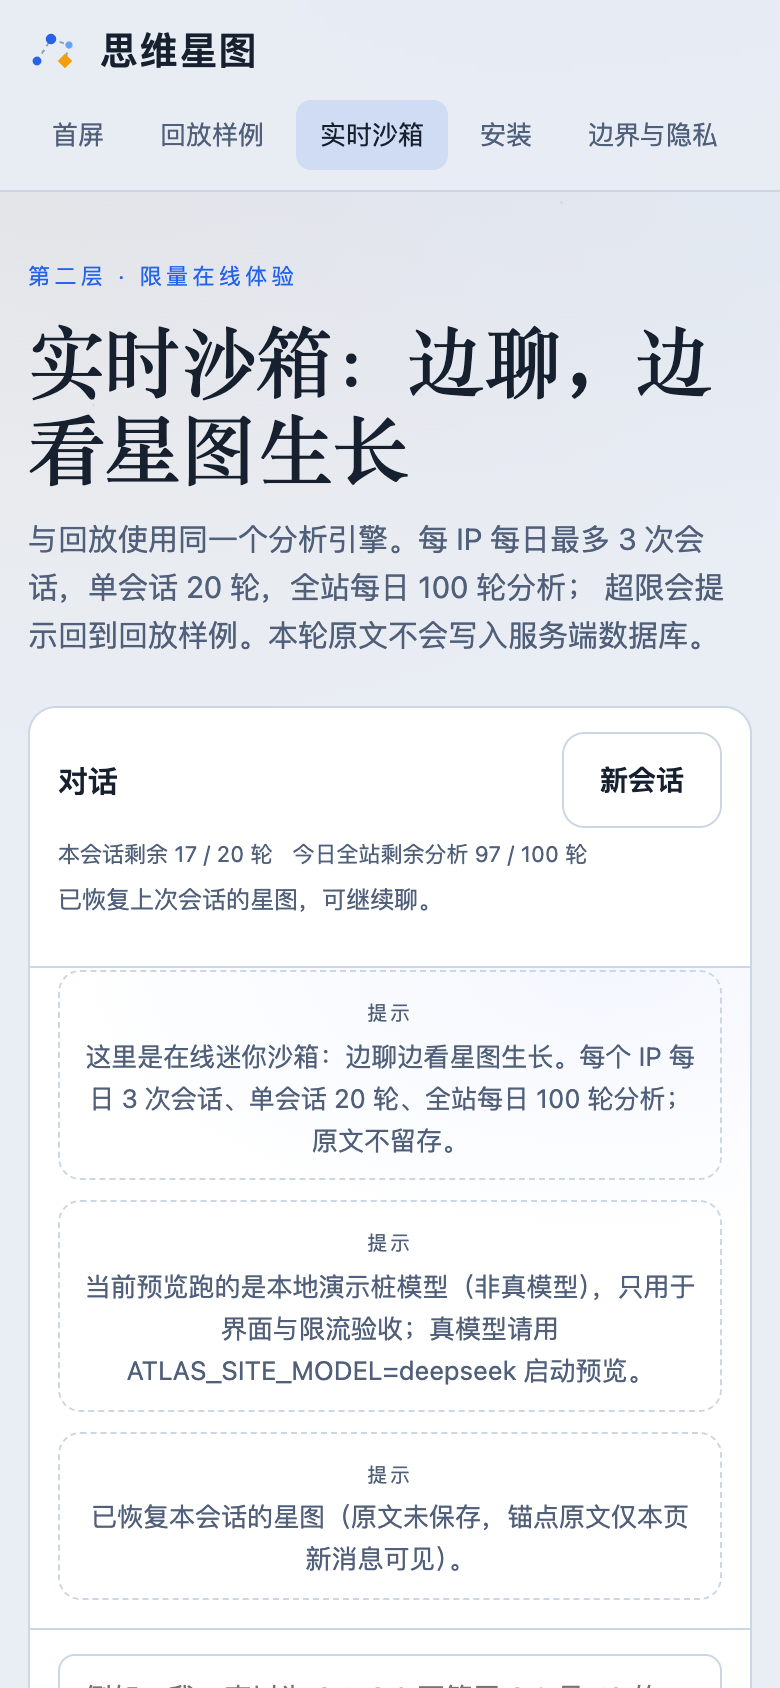
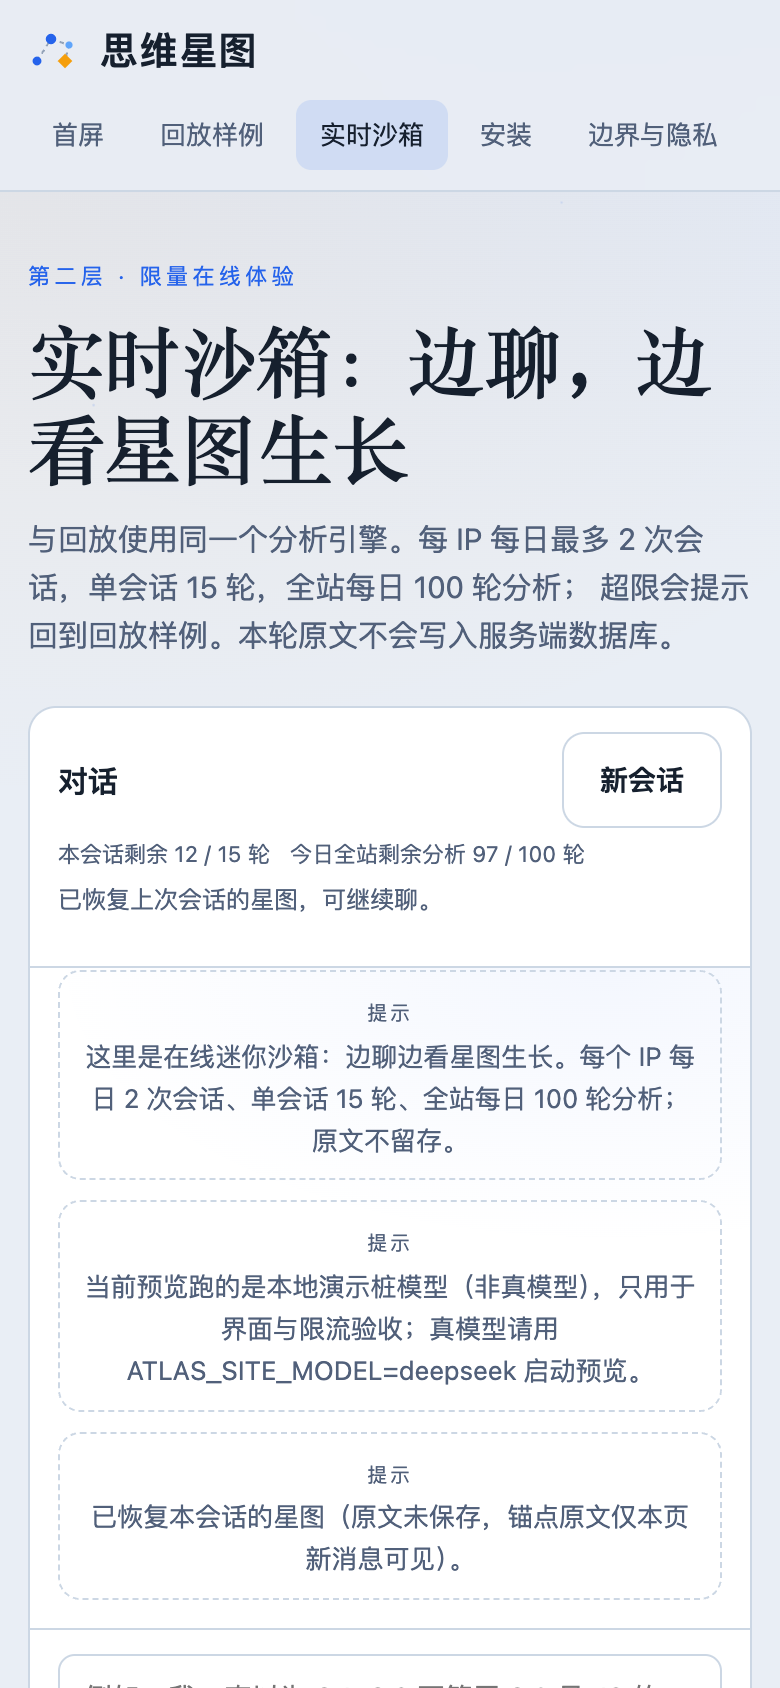
沙箱限流收紧：每 IP 每日 2 会话、单会话 15 轮
LIMITS 真值与服务端 CAS 强制同步收紧；错误提示、沙箱/边界/首页文案、
README、单测与验收断言全链路同步；全站每日 100 轮分析不变。

diff --git a/site/web/sandbox.ts b/site/web/sandbox.ts
@@ -130,7 +130,7 @@ async function ensureSession(): Promise<string | null> {
     bubble('system', error.message || '无法创建沙箱会话');
     setStatus(error.message, 'error');
     if (error.error === 'session_limit') {
-      bubble('system', '每个 IP 每日最多 3 次体验会话。可以先去回放样例看完整星图。');
+      bubble('system', '每个 IP 每日最多 2 次体验会话。可以先去回放样例看完整星图。');
     }
     return null;
   }
@@ -197,7 +197,7 @@ async function sendTurn(userText: string): Promise<void> {
     };
     setStatus(messages[data.status], data.status === 'analysis_failed' ? 'warn' : 'info');
     if (data.limits.sessionTurnsRemaining <= 0) {
-      bubble('system', '本会话已达 20 轮上限。可以新开一个会话，或回到回放样例。');
+      bubble('system', '本会话已达 15 轮上限。可以新开一个会话，或回到回放样例。');
     }
   } catch (error) {
     typing.remove();
@@ -250,10 +250,10 @@ function boot(): void {
     updateMap({ sessionId: '', nodes: [], edges: [], lastTurn: 0 });
     setLimits(null);
     setStatus('新会话将在下一条消息时创建。');
-    bubble('system', '已清空本页视图。下一条消息会创建新的体验会话（计入每日 3 次限额）。');
+    bubble('system', '已清空本页视图。下一条消息会创建新的体验会话（计入每日 2 次限额）。');
   });
 
-  bubble('system', '这里是在线迷你沙箱：边聊边看星图生长。每个 IP 每日 3 次会话、单会话 20 轮、全站每日 100 轮分析；原文不留存。');
+  bubble('system', '这里是在线迷你沙箱：边聊边看星图生长。每个 IP 每日 2 次会话、单会话 15 轮、全站每日 100 轮分析；原文不留存。');
   setLimits(null);
   updateCounter();
   updateMap({ sessionId: '', nodes: [], edges: [], lastTurn: 0 });

diff --git a/site/web/sandbox.html b/site/web/sandbox.html
@@ -5,7 +5,7 @@
     <meta name="viewport" content="width=device-width, initial-scale=1" />
     <meta name="color-scheme" content="only light" />
     <title>实时沙箱 · 思维星图</title>
-    <meta name="description" content="边聊边看星图生长。每 IP 每日 3 次会话、单会话 20 轮、全站每日 100 轮分析；沙箱原文不留存。" />
+    <meta name="description" content="边聊边看星图生长。每 IP 每日 2 次会话、单会话 15 轮、全站每日 100 轮分析；沙箱原文不留存。" />
     <link rel="stylesheet" href="/site.css" />
   </head>
   <body data-page="sandbox">
@@ -27,7 +27,7 @@
         <span class="kicker">第二层 · 限量在线体验</span>
         <h1>实时沙箱：边聊，边看星图生长</h1>
         <p>
-          与回放使用同一个分析引擎。每 IP 每日最多 3 次会话，单会话 20 轮，全站每日 100 轮分析；
+          与回放使用同一个分析引擎。每 IP 每日最多 2 次会话，单会话 15 轮，全站每日 100 轮分析；
           超限会提示回到回放样例。本轮原文不会写入服务端数据库。
         </p>
       </div>
@@ -67,7 +67,7 @@
       </div>
 
       <div class="callout warn">
-        限流规则是硬限制：每个 IP 每日 3 次会话、单会话最多 20 轮、全站每日最多 100 轮模型分析。
+        限流规则是硬限制：每个 IP 每日 2 次会话、单会话最多 15 轮、全站每日最多 100 轮模型分析。
         相同输入在骨架未变时会命中缓存，不消耗模型额度。熔断后请回到 <a href="/demo.html">回放样例</a>。
       </div>
     </main>

diff --git a/site/test/hosted.test.ts b/site/test/hosted.test.ts
@@ -49,9 +49,9 @@ test('missing Secret fails closed without model calls or stored text', async () 
   assert.equal(db.dump('analysis_cache').length, 0);
 });
 
-test('per-IP daily session cap is three', async () => {
+test('per-IP daily session cap is two', async () => {
   const { handler } = setup();
-  for (let i = 0; i < 3; i++) {
+  for (let i = 0; i < 2; i++) {
     const res = await post(handler, '/api/sandbox/session', {}, '198.51.100.4');
     assert.equal(res.status, 201);
   }
@@ -179,11 +179,11 @@ test('shift rule violation rejects the whole batch', async () => {
   assert.equal(body.map.nodes.length, 0);
 });
 
-test('per-session 20-turn cap', async () => {
+test('per-session 15-turn cap', async () => {
   const { db, handler } = setup();
   const sessionId = await newSession(handler);
   const row = db.tables.sandbox_sessions.find((entry) => entry.id === sessionId)!;
-  row.last_turn = 20;
+  row.last_turn = 15;
   const res = await post(handler, '/api/sandbox/turn', { sessionId, text: '超过单会话上限' });
   assert.equal(res.status, 429);
   assert.equal(((await res.json()) as { error: string }).error, 'session_turn_limit');

diff --git a/site/functions/lib/errors.ts b/site/functions/lib/errors.ts
@@ -13,8 +13,8 @@ const PUBLIC_MESSAGES: Record<string, string> = {
   invalid_json: '请求格式不正确',
   payload_too_large: '内容过长',
   text_too_long: '单轮内容不能超过 2000 字',
-  session_limit: '今天的体验会话次数已用完（每个 IP 每日 3 次）',
-  session_turn_limit: '本会话已达 20 轮上限，请回到回放样例继续看星图',
+  session_limit: '今天的体验会话次数已用完（每个 IP 每日 2 次）',
+  session_turn_limit: '本会话已达 15 轮上限，请回到回放样例继续看星图',
   session_busy: '本会话正在处理上一条消息，请稍后再试',
   quota_exhausted: '今日额度已用完，请看回放',
   service_not_configured: '演示服务尚未配置模型密钥，暂不可用；回放样例不受影响',

diff --git a/site/web/boundary.html b/site/web/boundary.html
@@ -91,8 +91,8 @@
 
         <h2 id="limits">限流与额度</h2>
         <ul>
-          <li>每个 IP 每日最多 <strong>3 次</strong>体验会话。</li>
-          <li>单个会话最多 <strong>20 轮</strong>。</li>
+          <li>每个 IP 每日最多 <strong>2 次</strong>体验会话。</li>
+          <li>单个会话最多 <strong>15 轮</strong>。</li>
           <li>全站每日最多 <strong>100 轮</strong>模型分析；熔断后友好降级为「今日额度已用完，请看回放」。</li>
           <li>单轮输入 ≤ <strong>2000 字</strong>；请求体 ≤ 8 KiB。</li>
           <li>相同输入在图骨架未变时命中哈希缓存，<strong>不消耗模型额度</strong>；缓存只保存 ops，不保存回复原文。</li>

diff --git a/site/web/index.html b/site/web/index.html
@@ -54,7 +54,7 @@
           <article class="block-card">
             <span class="module-step">02 · 自己试</span>
             <h3>亲手聊一段，看星图长出来</h3>
-            <p>真模型逐轮分析，你聊你的，它画它的。每 IP 每日 3 次会话、单会话 20 轮，原文不留存。</p>
+            <p>真模型逐轮分析，你聊你的，它画它的。每 IP 每日 2 次会话、单会话 15 轮，原文不留存。</p>
             <a href="/sandbox.html">开始体验 →</a>
           </article>
           <article class="block-card">

diff --git a/scripts/d6-site-check.ts b/scripts/d6-site-check.ts
@@ -317,7 +317,7 @@ try {
   }
   const boundaryText = await cdp.eval<string>('document.body.innerText');
   check(boundaryText.includes('原文不留存'), 'boundary page must state no original text retention');
-  check(boundaryText.includes('最多 3 次'), 'boundary page must state session limits');
+  check(boundaryText.includes('最多 2 次'), 'boundary page must state session limits');
   check(boundaryText.includes('100 轮'), 'boundary page must state analysis limits');
   evidence.pages = pageChecks;
 

diff --git a/site/functions/lib/limits.ts b/site/functions/lib/limits.ts
@@ -4,8 +4,8 @@ import { insertRow, rows, updateRows } from './db.ts';
 import { AppError } from './errors.ts';
 
 export const LIMITS = {
-  sessionsPerIpPerDay: 3,
-  turnsPerSession: 20,
+  sessionsPerIpPerDay: 2,
+  turnsPerSession: 15,
   analysesPerDay: 100,
   maxInputChars: 2000,
   maxBodyBytes: 8192,

diff --git a/CHANGELOG.md b/CHANGELOG.md
@@ -1,5 +1,17 @@
 # CHANGELOG
 
+## v0.7.4 — 沙箱限流收紧：每日 2 会话、单会话 15 轮（2026-11-24）
+
+### 变更
+- `LIMITS` 真值：`sessionsPerIpPerDay` 3→2、`turnsPerSession` 20→15（全站每日 100 轮分析不变）；服务端 CAS 强制随之生效
+- 同步全部用户可见文案：错误提示（errors.ts）、沙箱页头/硬限制 callout/meta、沙箱系统气泡四条、边界页限流列表、首页模块 02、README
+- 单测同步：per-IP 会话上限改 2（第 3 次 429）、单会话上限改 15（last_turn=15 时 429）
+- 验收断言同步：边界页「最多 2 次」；历史 CHANGELOG 与 docs/verification-d6.md 保留旧值作为当时记录
+
+### 验证
+- typecheck 干净；125/125；build:site 通过
+- 桩实例 7791 全量验收绿（见 evidence/d6-site.json，health.stub=true 自标注）
+
 ## v0.7.3 — 链路可读性：步序号 / 起点 / 首页生长回放（2026-11-24）
 
 ### 变更
